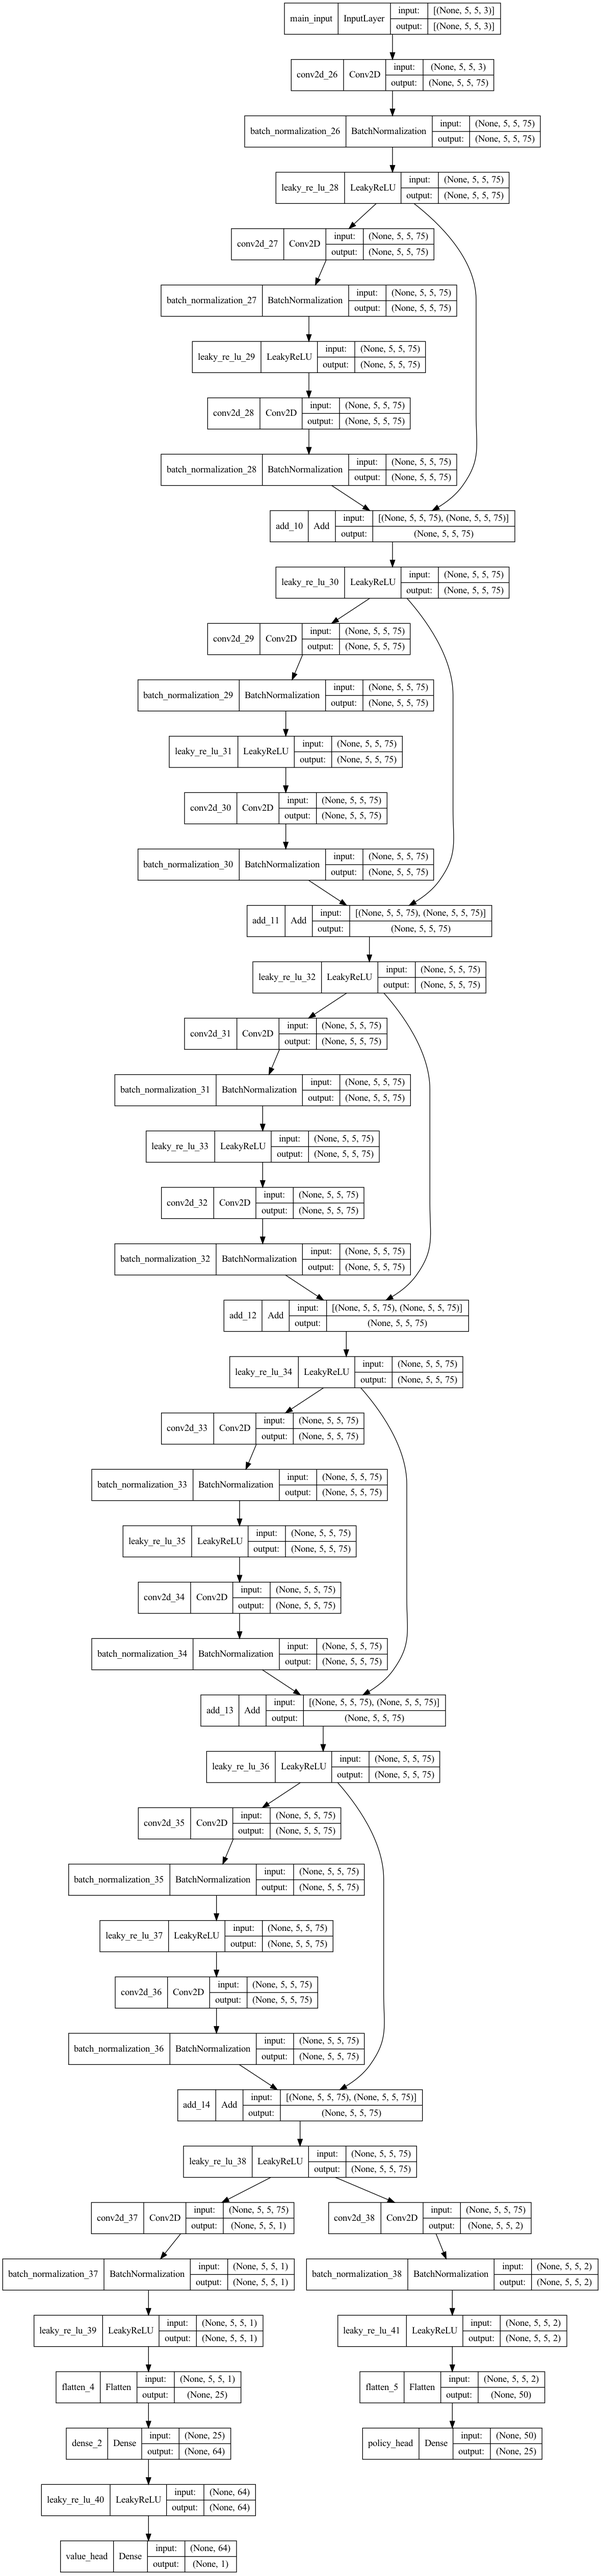
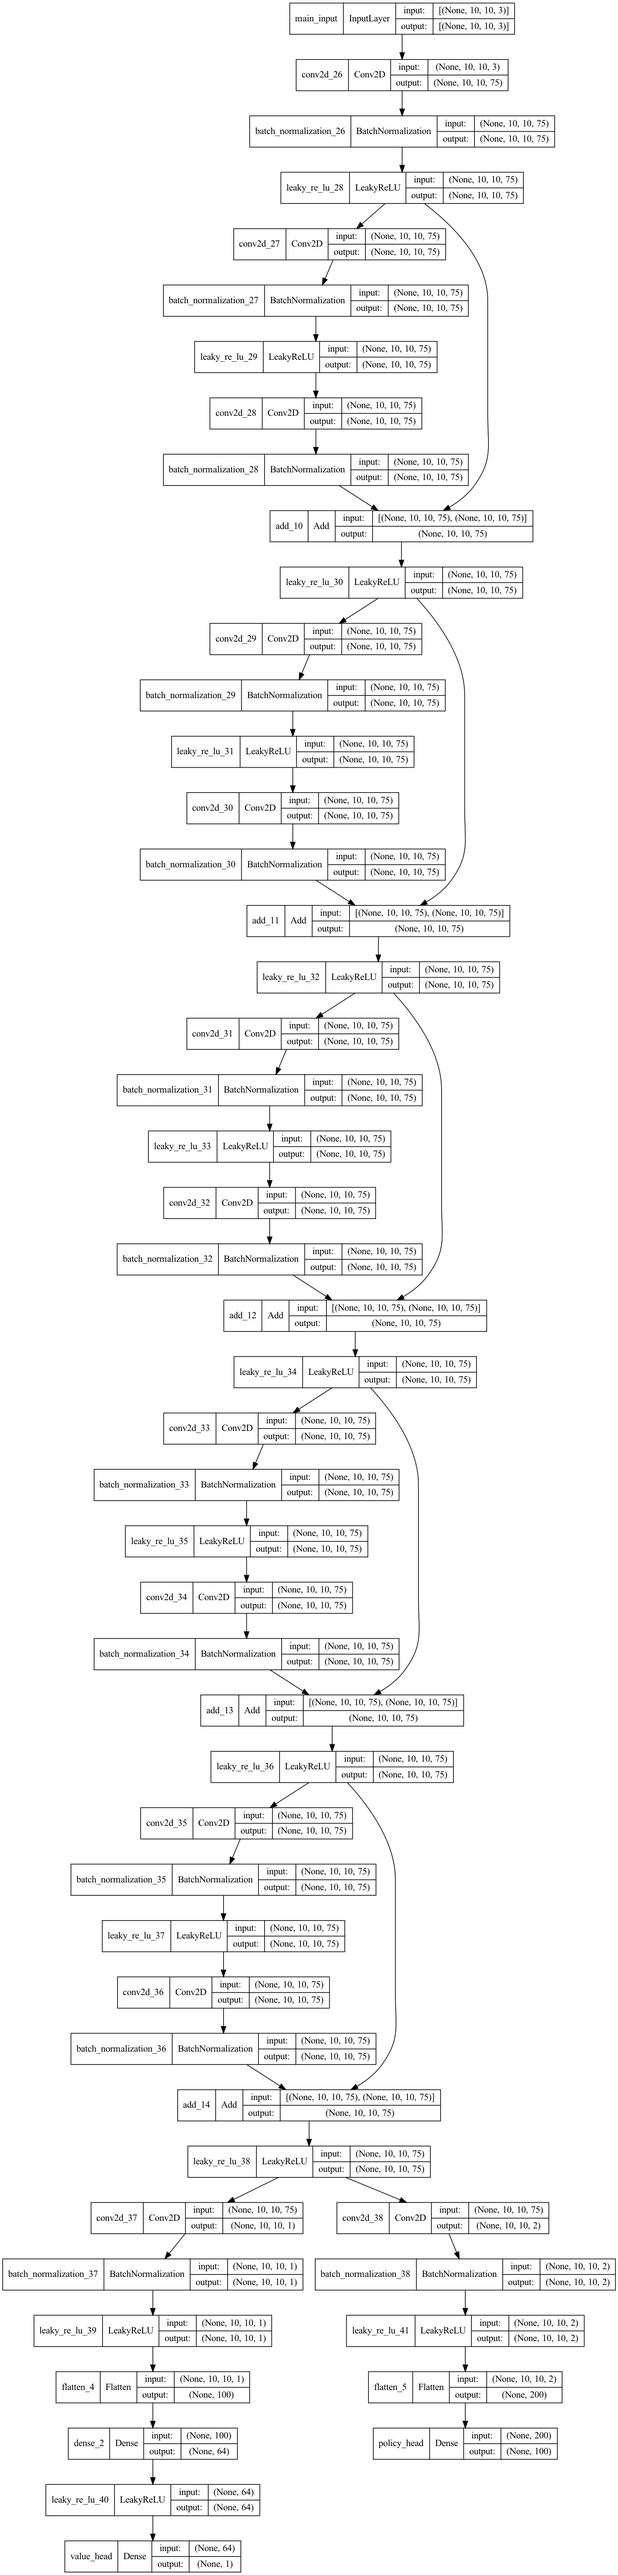
changes to make it work for general use

diff --git a/game.py b/game.py
@@ -19,14 +19,18 @@ def generate_game_state(node):
     return game_state
 
 def get_legal_moves(board):
-    legal_moves = []
-    for i in range(config.game_dimensions[1]):
-        for i2 in range(config.game_dimensions[0]):
-            if board[i + i2 * config.game_dimensions[1]] != 0:
-                legal_moves.append(-1 if i2 == 0 else i + (i2 - 1) * config.game_dimensions[1])
-                break
-        else:
-            legal_moves.append(i + i2 * config.game_dimensions[1])
+    if config.move_amount != np.prod(config.game_dimensions):
+        legal_moves = []
+        for i in range(config.game_dimensions[1]):
+            for i2 in range(config.game_dimensions[0]):
+                if board[i + i2 * config.game_dimensions[1]] != 0:
+                    legal_moves.append(-1 if i2 == 0 else i + (i2 - 1) * config.game_dimensions[1])
+                    break
+            else:
+                legal_moves.append(i + i2 * config.game_dimensions[1])
+    else:
+        legal_moves = np.where(board == 0)
+        if len(legal_moves) != 0: legal_moves = legal_moves[0]
     return legal_moves
 
 def check_game_over(board):
@@ -38,6 +42,7 @@ def check_game_over(board):
                     # print([i * config.game_dimensions[1] + i2 + i3 for i3 in checks[1]])
                     pos = [board[i * config.game_dimensions[1] + i2 + i3] == player for i3 in checks[1]]
                     if pos.count(True) == config.in_a_row: return player
+
     if np.count_nonzero(board) == np.prod(config.game_dimensions):
         return 0
 

diff --git a/player.py b/player.py
@@ -44,15 +44,6 @@ class Agent():
 
         return action, pi
 
-    def choose_action(self, pi, values, tau):
-        if tau == 1e-2:
-            actions = np.flatnonzero(pi == np.max(pi))
-            action = np.random.choice(actions)
-        else: action = np.where(np.random.multinomial(1, pi) == 1)[0][0]
-        value = values[action]
-
-        return action, value
-
     def getAV(self, root, tau):
         pi = np.zeros(np.prod(config.game_dimensions))
         values = np.zeros(np.prod(config.game_dimensions))
@@ -65,6 +56,15 @@ class Agent():
         pi /= np.sum(pi)
 
         return pi, values
+
+    def choose_action(self, pi, values, tau):
+        if tau == 1e-2:
+            actions = np.flatnonzero(pi == np.max(pi))
+            action = np.random.choice(actions)
+        else: action = np.where(np.random.multinomial(1, pi) == 1)[0][0]
+        value = values[action]
+
+        return action, value
     
     def print_move(self, root, pi, mcts_value, nn_value):
         player_dict = {1: "X", -1: "O"}

diff --git a/node.py b/node.py
@@ -31,16 +31,18 @@ class Node:
         return root
 
     def simulate(self, nn):
+        outcome = game.check_game_over(self.s)
         if len(self.children) != len(game.get_legal_moves(self.s)):
-            outcome = game.check_game_over(self.s)
             if outcome is None:
                 self.expand_fully(nn)
                 v = nn.get_preds(self)[0] if outcome is None else outcome
             else: v = outcome
             self.backfill(v)
         else:
-            self.p = self.probabilities()
-            self.children[np.argmax(self.p)].simulate(nn)
+            if outcome is None:
+                self.p = self.probabilities()
+                self.children[np.argmax(self.p)].simulate(nn)
+            else: self.backfill(outcome)
 
     def expand_fully(self, nn):
         prior = nn.get_preds(self)[1] if nn is not None else [0] * np.prod(game.game_dimensions)

diff --git a/main.py b/main.py
@@ -29,7 +29,7 @@ def play(players, games, training):
         tau = 1 if training else 1e-2
         outcome = None
         while outcome is None:
-            if turn >= config.turns_until_tau: tau = 1e-2
+            if turn == config.turns_until_tau: tau = 1e-2
             player = players[player_turn]
             action, pi = player.play_turn(action, tau)
             player_turn *= -1
